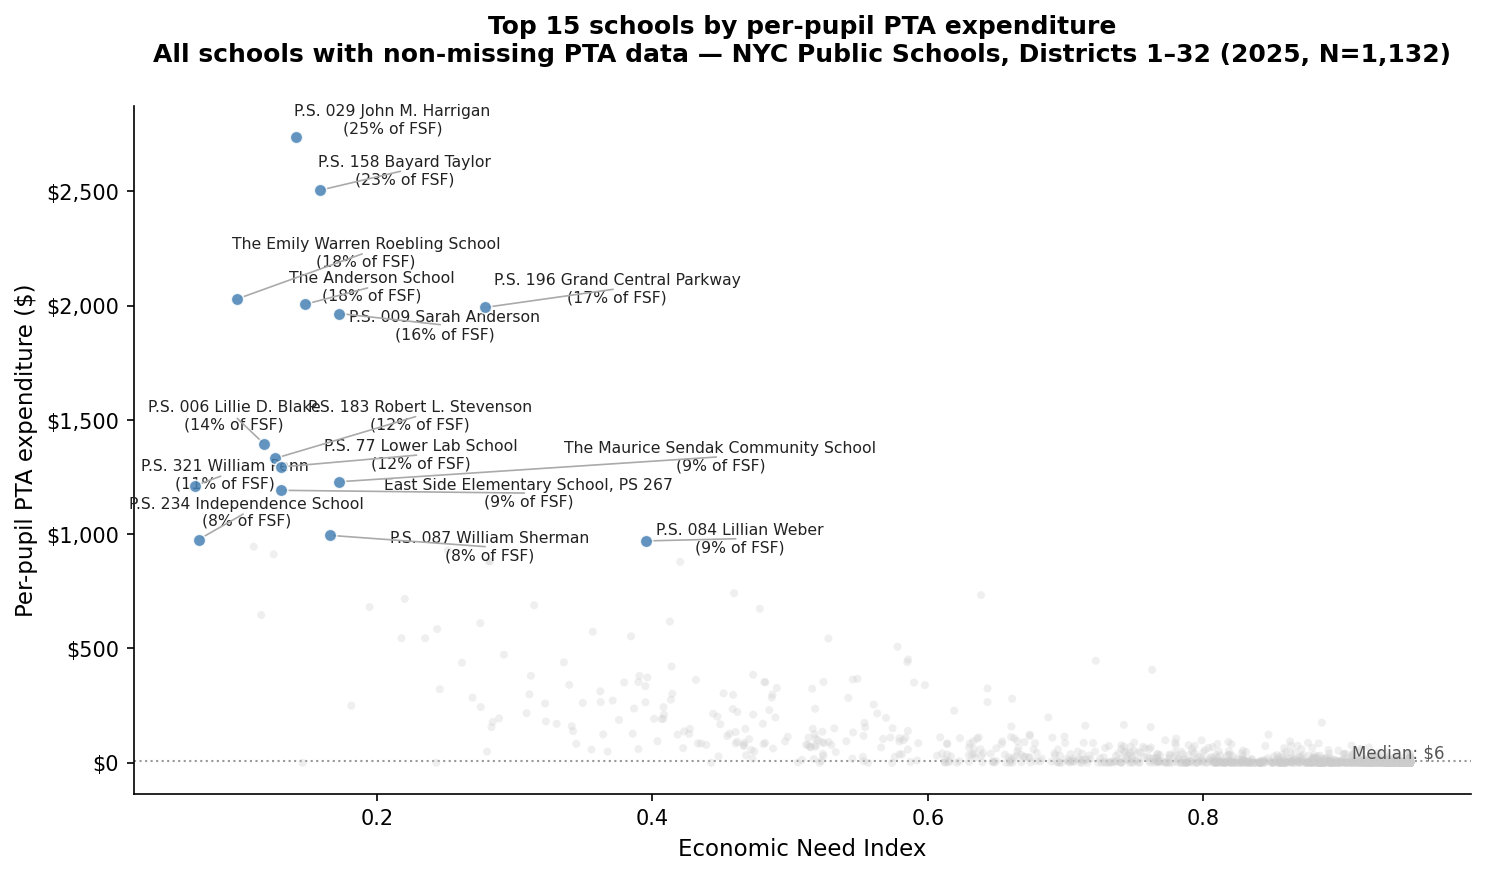
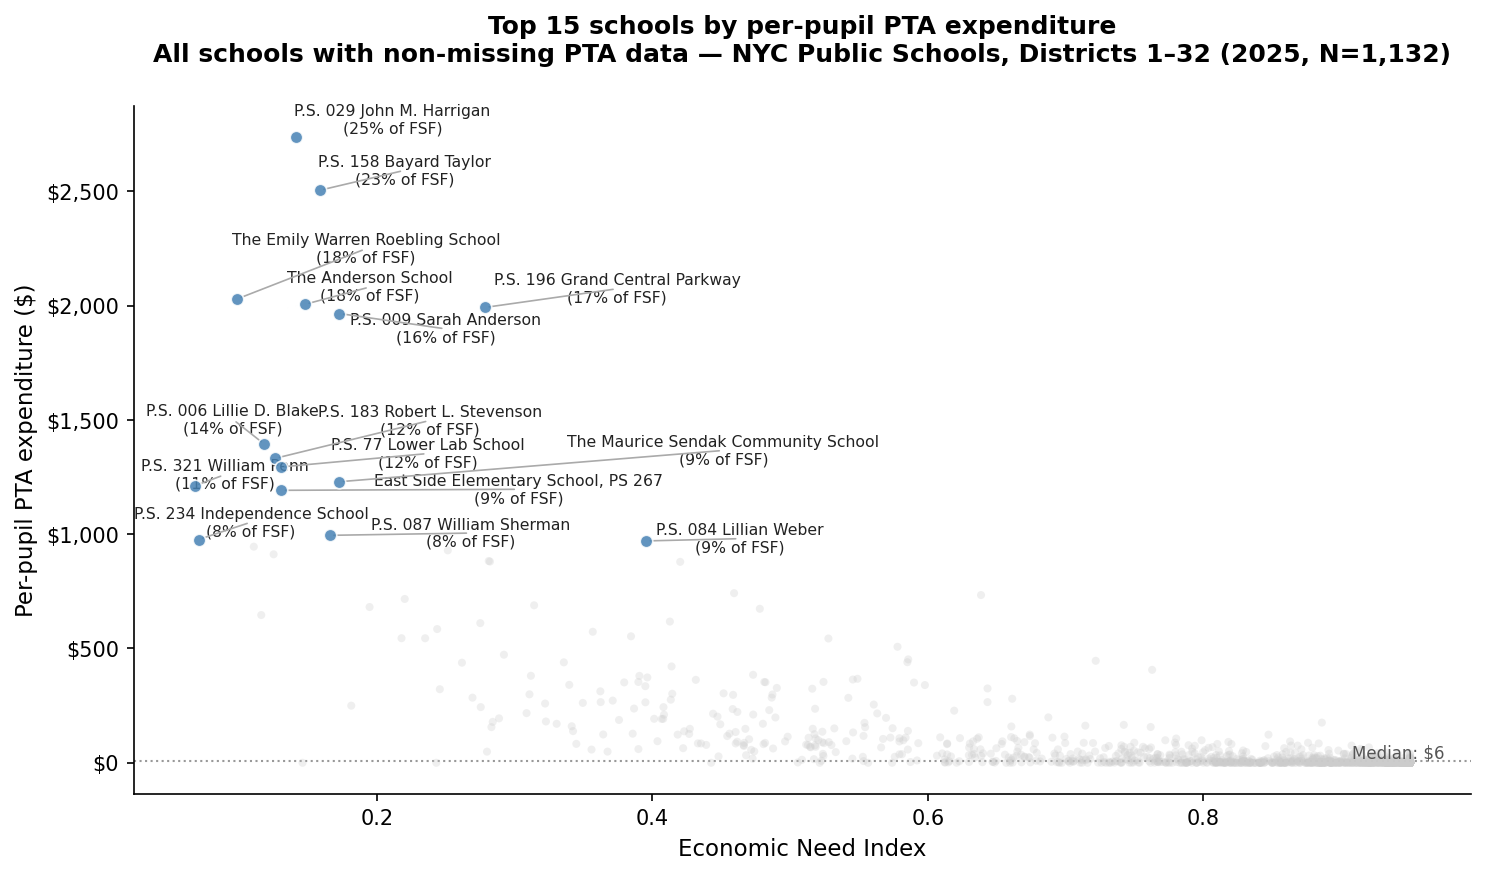
update README

Changed region(s): [[0.0929, 0.4629, 0.5886, 0.648], [0.1549, 0.2469, 0.3717, 0.4011]]

diff --git a/src/visualization/visualize_trends.py b/src/visualization/visualize_trends.py
@@ -89,8 +89,6 @@ def plot_pta_quintile_trends(
 
         # -----> plot one line per quintile 
         for col in data.columns:
-            # print(col)
-            print(data)
             current_values = data[col].values
 
             ax.plot(

diff --git a/README.md b/README.md
@@ -47,7 +47,7 @@ Since PTA fundraising has historically been an opaque funding source, this analy
 
 - The analysis is restricted to schools in Districts 1–32, the general education community school districts, and excludes District 75 (specialized schools for students with disabilities) and District 79 (alternative programs).
 - Additionally, to ensure complete covariate coverage, the sample is further limited to schools appearing in all three source datasets in a given year: the NYCPS Demographic Snapshot, the Fair Student Funding allocations file, and the PTA fundraising data.
-- Lastly, schools with missing PTA records and schools where the implied ending balance (starting balance + income − expenditures) substantially deviates from the reported ending balance are also excluded; these decisions are discussed in detail in the **Missingness in PTA reporting** and **Data anomalies** sections below.
+- Lastly, schools with missing PTA records and schools where the implied ending balance (starting balance + income − expenditures) substantially deviates from the reported ending balance are also excluded; these decisions are discussed in detail in the [Missingness in PTA reporting](#missingness-in-pta-reporting) and [Data anomalies](#data-anomalies) sections below.
 
 ## Key findings
 
@@ -96,14 +96,14 @@ Analysis of the Economic Need Index (ENI) reveals systematic differences between
 - the mean ENI for schools with inactive PTAs is 0.90, and
 - the mean ENI for schools with missing PTA data is 0.81.
 
-Because schools with missing data fall between active and inactive schools in terms of ENI, we conclude that imputing missing values as zero would introduce significant bias. Consequently, all analyses for SY 2024-25 exclude the 322 schools with missing data.
+Because schools with missing data fall between active and inactive schools in terms of ENI, we conclude that imputing missing values as zero would introduce significant bias. Consequently, all analyses for the 2024-25 school year exclude the 322 schools with missing data.
 
-Additionally, we exclude observations where the implied end balance (start balance + income – expenditures) deviates from the reported end balance by both:
+Additionally, we exclude 26 observations in SY 2024-25 where the implied end balance (start balance + income – expenditures) deviates from the reported end balance by both:
 
 - More than 5% relative difference; AND
 - An absolute dollar value exceeding $50,000.
 
-See the section on **Data anomalies** below for additional analyses on anomalous transactions.
+See the section on [Data anomalies](#data-anomalies) below for additional analyses on anomalous transactions.
 
 ### Severe financial inequities
 
